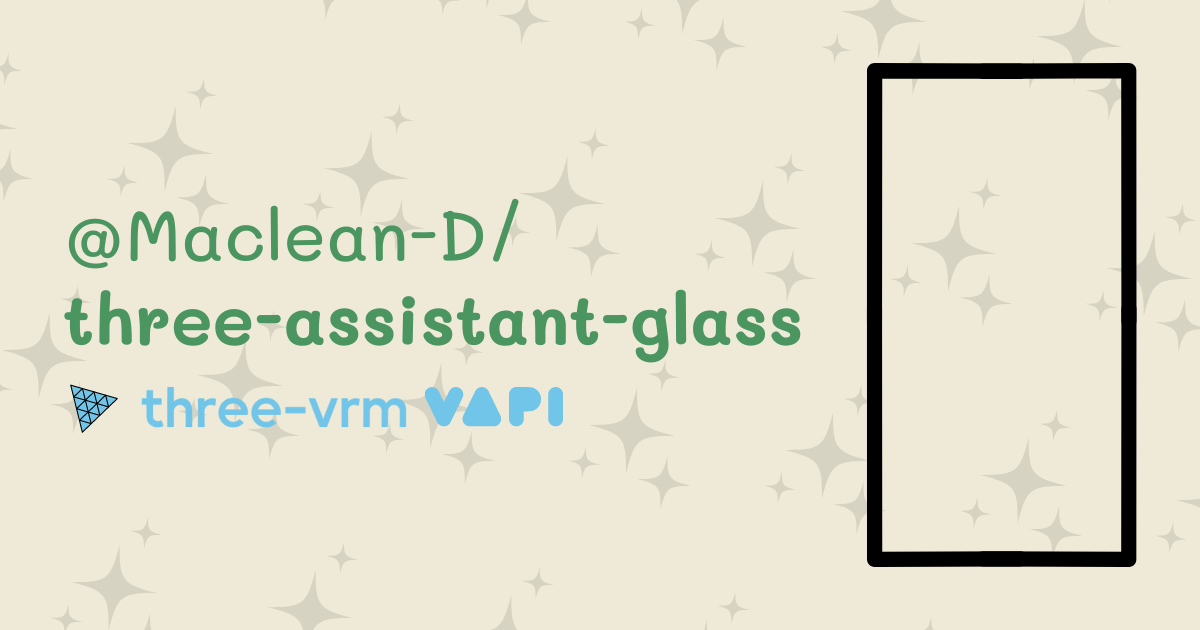
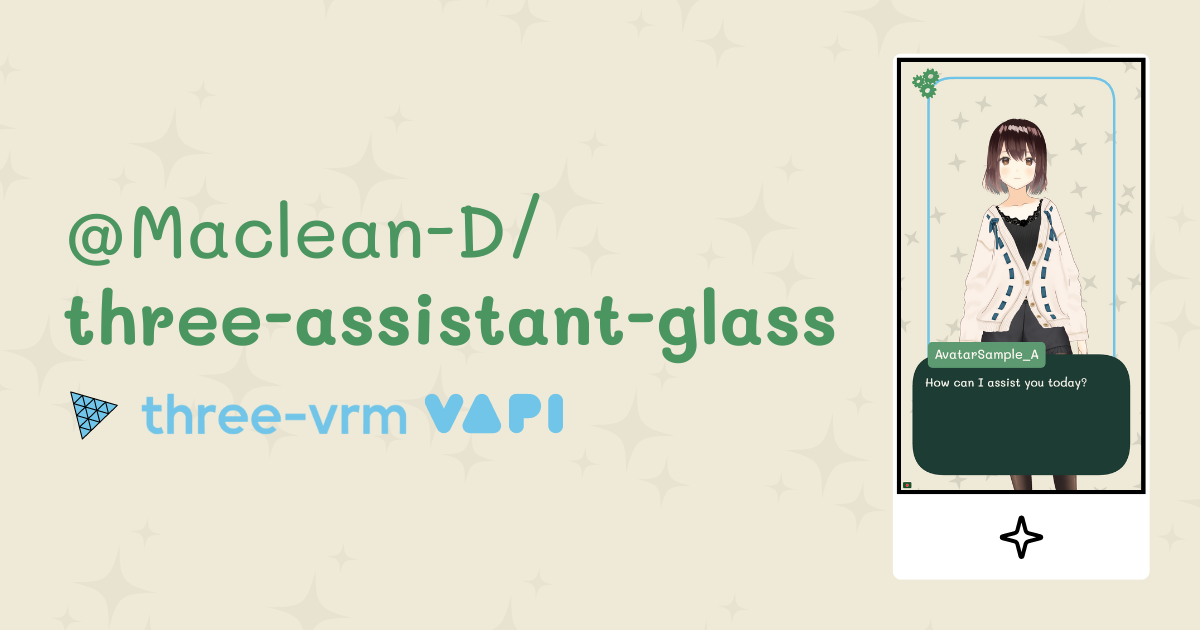
fix vapi variable and update cover

Changed region(s): [[0.0617, 0.0603, 0.9558, 0.9349], [0.0617, 0.3016, 0.4625, 0.4222], [0.0617, 0.6032, 0.4625, 0.6937]]

diff --git a/main.js b/main.js
@@ -56,6 +56,8 @@ let lastBlinkTime = 0;
 const blinkInterval = 4; // Average time between blinks in seconds
 const blinkDuration = 0.17; // Duration of a blink in seconds
 
+let vapi; // Declare vapi at the top level
+
 // Add this function to fetch settings
 async function fetchSettings() {
     try {
@@ -765,7 +767,13 @@ async function getVapiPublicKey() {
 // Update the initializeVapi function
 async function initializeVapi() {
   const vapiKey = await getVapiPublicKey();
-  assistantId = await getAssistantId(); // Get the assistantID from settings
+  assistantId = await getAssistantId(); 
+
+  if (!vapiKey) {
+    console.error('Vapi public key not found in settings');
+    return;
+  }
+
   vapi = new Vapi(vapiKey);
 
   vapi.on('call-start', () => {
